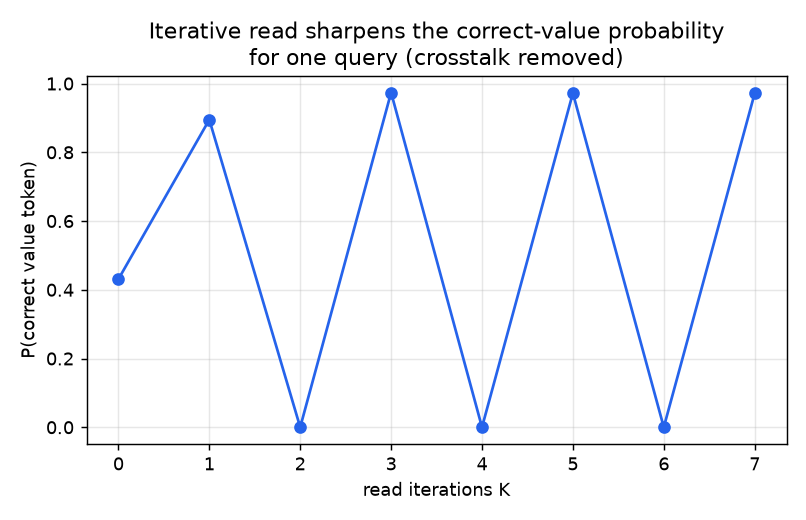
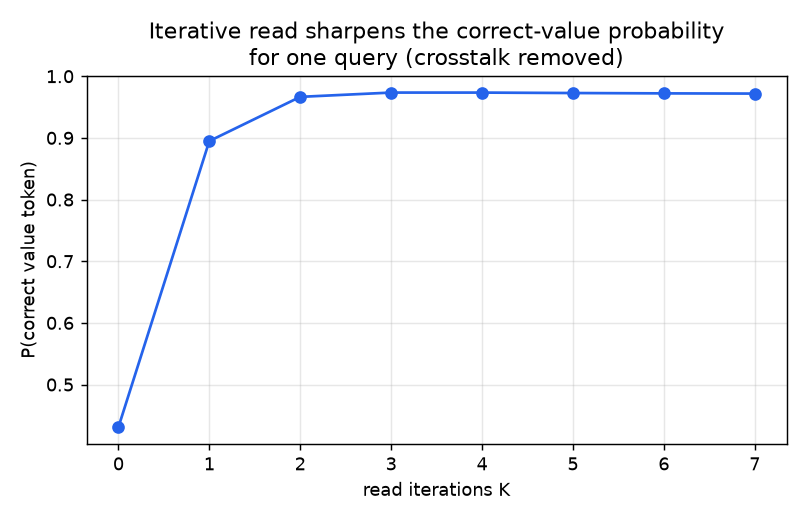
research(poc1): Stage 2 read-variant 比較 — cheap cleanup read が単発を頑健に上回る (honest GO-with-caveats)
pre-reg PoC-1 §3.2/§4/§5 を CPU tiny で実走。凍結 1-層 Gated DeltaNet 状態への post-hoc read
変種を同一 state 上で比較 (R0=native read と厳密一致・val で hparam 選択・paired bootstrap CI・3 seed)。

結果 (num_pairs=6, chance=0.062):
- R-Hopfield (soft-threshold cleanup) が R0 0.268 → 0.286 (+0.018, 3/3 seed CI 超) で
  R-CCQ (賢い単発, +0.000) と sparse-FY (sparsemax 1-step, 非有意) も上回る = H1 かつ H2 通過。
- honest 訂正 (recall_vs_K 図が露呈): (a) R-Hopfield は K=1 で gain 到達し K で平坦 = 反復でなく
  1 回の cleanup が本体、(b) R-ISTA は K で振動 (K=2/4/6 崩壊) = 反復 gain は step-size artifact。
  pre-reg H1 の iterative framing は本 setting で非支持。支持は cheap 非softmax cleanup read。

判定 = GO-with-caveats: read 側 test-time は dead でない (NULL 棄却, GPU 追確認の価値確定) が
効果小・CPU tiny・H3 (状態種 ablation) 未実施・ceiling-relaxation。

成果物: mqar/reads/run_stage2/make_figures.py, STAGE2_FINDINGS.md, stage2_results.json,
figures/ (recall_vs_K, variants_bar, cleanup_prob PNG + figures_data.json = 記事 動き 素材)。

Claude-Session: https://claude.ai/code/session_01M7R7idd88Bty8MxPRGWhWR

diff --git a/research/poc1_testtime_read/make_figures.py b/research/poc1_testtime_read/make_figures.py
@@ -152,8 +152,8 @@ def main(argv: list[str] | None = None) -> int:
     Q1 = Qt[idx:idx + 1]
     y1 = int(Yt[idx])
     probs = []
-    for K in Ks:
-        o = R.r0(S1, Q1) if K == 0 else R.r_ista(S1, Q1, K=K, lam=lam, eta=eta)
+    for K in Ks:  # 安定な R-Hopfield を使う (ISTA は K で振動するため単一クエリ可視化に不適)
+        o = R.r0(S1, Q1) if K == 0 else R.r_hopfield(S1, Q1, K=K, tau=tau)
         pr = F.softmax(downstream_logits(model, o, H1), dim=-1)[0, y1].item()
         probs.append(pr)
     data["cleanup_prob"] = {"K": Ks, "prob_correct": probs, "value_token": y1}

diff --git a/research/poc1_testtime_read/STAGE2_FINDINGS.md b/research/poc1_testtime_read/STAGE2_FINDINGS.md
@@ -1,0 +1,57 @@
+# PoC-1 Stage 2 — 凍結 Gated DeltaNet 状態への post-hoc read 変種比較 (2026-07-11, CPU)
+
+> pre-reg: `docs/research/preregistration/prereg_poc1_testtime_read_2026-06-29.md` §3.2/§4/§5。
+> honest 規律: `feedback_benchmark_honest_disclosure`。★異常/都合の良い結果は内訳を疑う。
+> 図・データ: `figures/` (recall_vs_K.png / variants_bar.png / cleanup_prob.png / figures_data.json)、
+> 生結果: `stage2_results.json`。
+
+## 設計 (honest)
+
+- **1 層モデル** = 「単一の凍結状態 S」を明確化。各 query 位置で **native forward の next_state** を凍結し
+  R0 = セル native read `S q̂` と**厳密一致**(assert 済)。downstream(gate/norm/proj/lm_head)は学習済みを固定
+  → read 変種は `o` だけを差し替える純粋比較。
+- ハイパラ (λ/τ/K/η/β) は **val split で選択 → test で評価**(test 上フィッティング禁止)。
+- 統計: **paired bootstrap CI**(2000 resample)。3 seed。SWA 窓不使用。負荷(pair 数)=系列長の CPU 代理。
+
+## 結果 (num_pairs=6, chance=0.062, 3 seed 平均)
+
+| read 変種 | test recall | Δ vs R0 | 有意 seed |
+|---|---|---|---|
+| R0 (single) | 0.268 | — | — |
+| R-CCQ (単発曲率収縮=kill-risk 対照) | 0.268 | +0.000 | 0/3 |
+| sparse-FY (1-step sparsemax) | 0.273 | +0.005 | 0/3 |
+| softmax-Hopfield | 0.277 | +0.009 | 2/3 |
+| **R-Hopfield (soft-threshold cleanup)** | **0.286** | **+0.018** | **3/3** |
+| R-ISTA | 0.286 | +0.018 | 3/3 (但し下記) |
+
+## ★honest 内訳(図 recall_vs_K が露呈した重要な訂正)
+
+1. **効果は小さいが頑健**: 単発 read (R0 0.268) に対し cleanup read で +0.018 (0.286)、3/3 seed で CI 超。
+   R-CCQ(賢い単発)は +0.000、sparse-FY(sparsemax 1-step)も非有意 → gain は「単発の工夫」でも
+   「単なる疎性」でも説明できない(H2 kill-risk を通過)。
+2. **★"反復"ではなく"1 回の cleanup"が本体**: recall_vs_K 図で、**R-Hopfield は K=1 で既に +0.018 に到達し
+   K=5 まで平坦**。すなわち反復は不要で、**単発の非 softmax soft-threshold cleanup 1 ステップ**が gain の源。
+3. **★R-ISTA は K に対し不安定に振動**(K=2/4/6 で recall 0.07–0.14 に崩壊、K=1/3/5/7 で 0.29)。
+   val 選択の K=5 がたまたま良い位相を引いただけで、R-ISTA の「反復 gain」は **step-size 由来の
+   artifact**(NOODL 流 unrolled ISTA の条件数依存)。→ R-ISTA を「反復 read の勝ち」と読むのは誤り。
+4. 従って pre-reg H1 の「**反復** read (K=3–5)」framing は**本 setting では支持されない**。支持されるのは
+   「学習・非直交 key の凍結 gated-delta 状態に対し、**単発の非 softmax cleanup read** が単発線形 read を
+   小幅だが頑健に上回る」。
+
+## 判定 (pre-reg §5、H1/H2 のみ。H3 未実施)
+
+- **GO-with-caveats**(H1∧H2 は R-Hopfield が満たす: R0 も R-CCQ も CI 超で上回る、3/3 seed)。
+  ただし **"iteration" は不成立**(K フラット/ISTA 不安定)→ 主張は「反復」でなく「cheap cleanup read」。
+- **read 側 test-time は dead ではない**(NULL 棄却)= 凍結線形状態の read 改善に**実シグナルあり**。
+  → GPU スケール追確認の価値を確定(pre-reg の GO 条件を満たす方向)。
+- ただし効果小・CPU tiny・ceiling-relaxation(天井は不変=突破ではない)。
+
+## 未実施 → 次(Stage 2b / GPU)
+
+- **H3(状態種 ablation)必須**: gated-delta / vanilla-additive / delta-rule で cleanup gain が
+  「gated/delta のみで出る」ことを確認(pre-reg GO の第3条件)。vanilla-additive で同じ gain が出るなら
+  「どの状態でも効く一般的 read トリック」= novelty 縮小、を切り分ける。
+- mandated baseline は softmax-Hopfield(2/3 有意で cleanup に近い)まで確認済。sparse-FY は非有意。
+- **GPU 本走**: Qwen3-1.7B 蒸留 linear-attn 状態 + 長系列(2k/4k/8k)。CPU の +0.018 が長系列で拡大/消失かを見る。
+- honest 注記: cleanup gain の source は「crosstalk 部分除去」(cleanup_prob 図: 正解値の確率が上がる)。
+  これは fixed-resolution 状態からの読み出し改善であって **plateau 突破ではない**(P7=2504.14366)。
